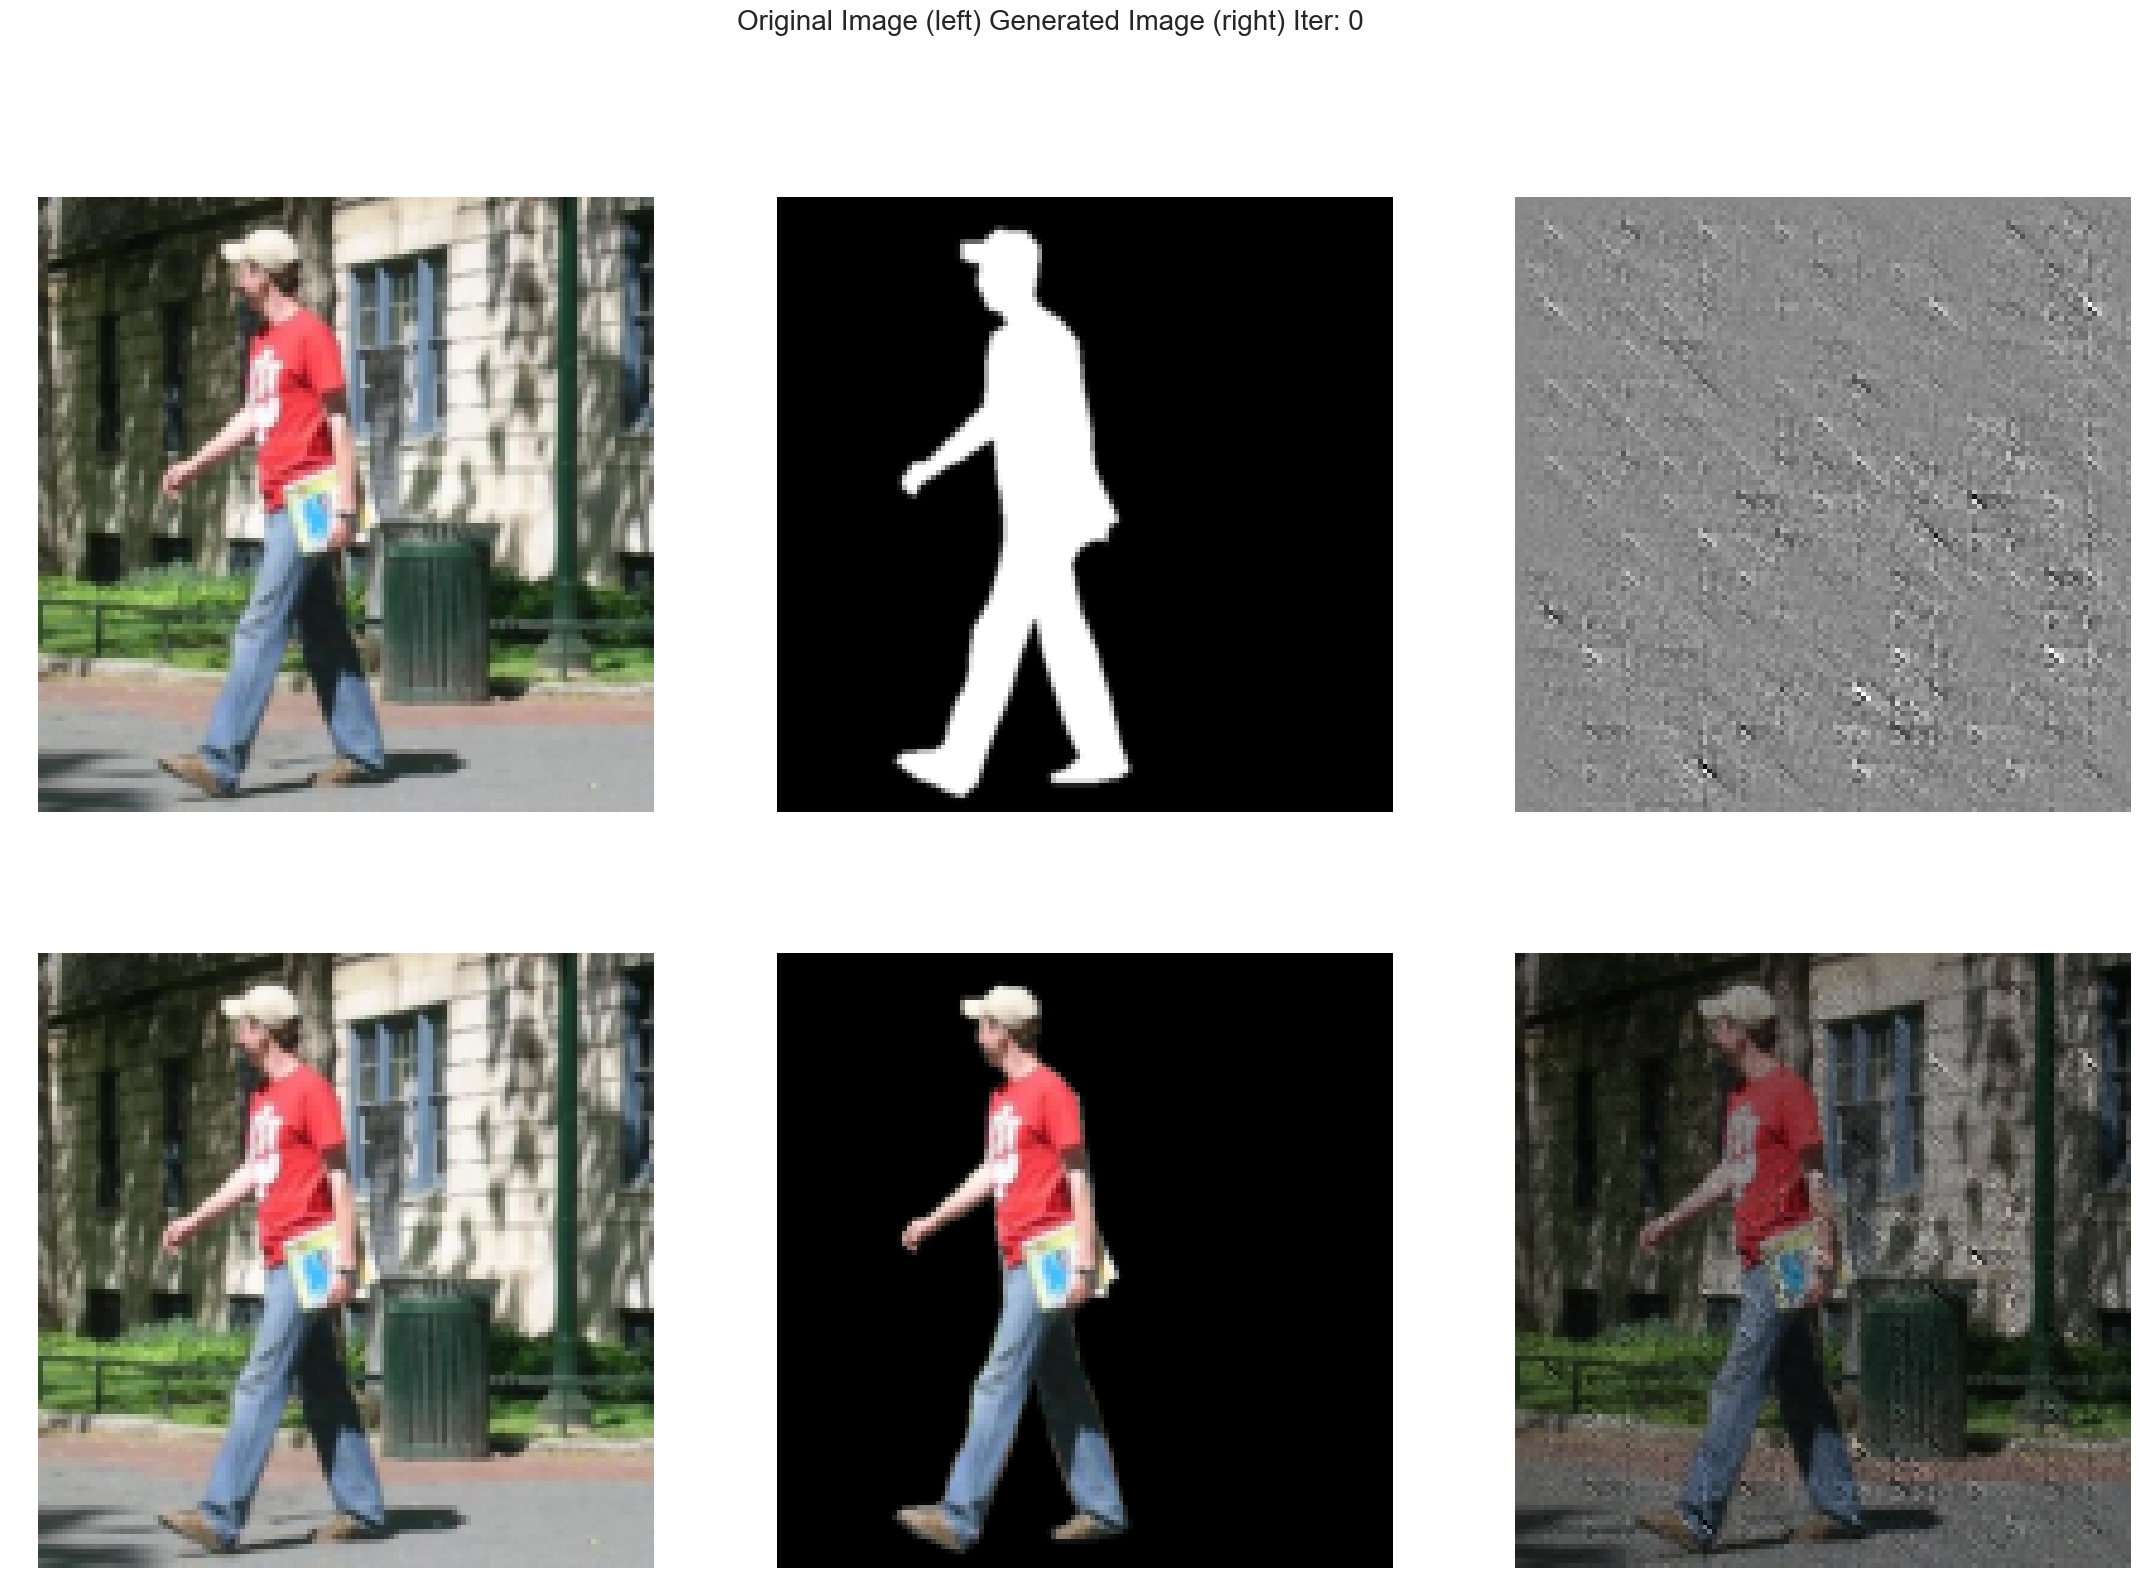
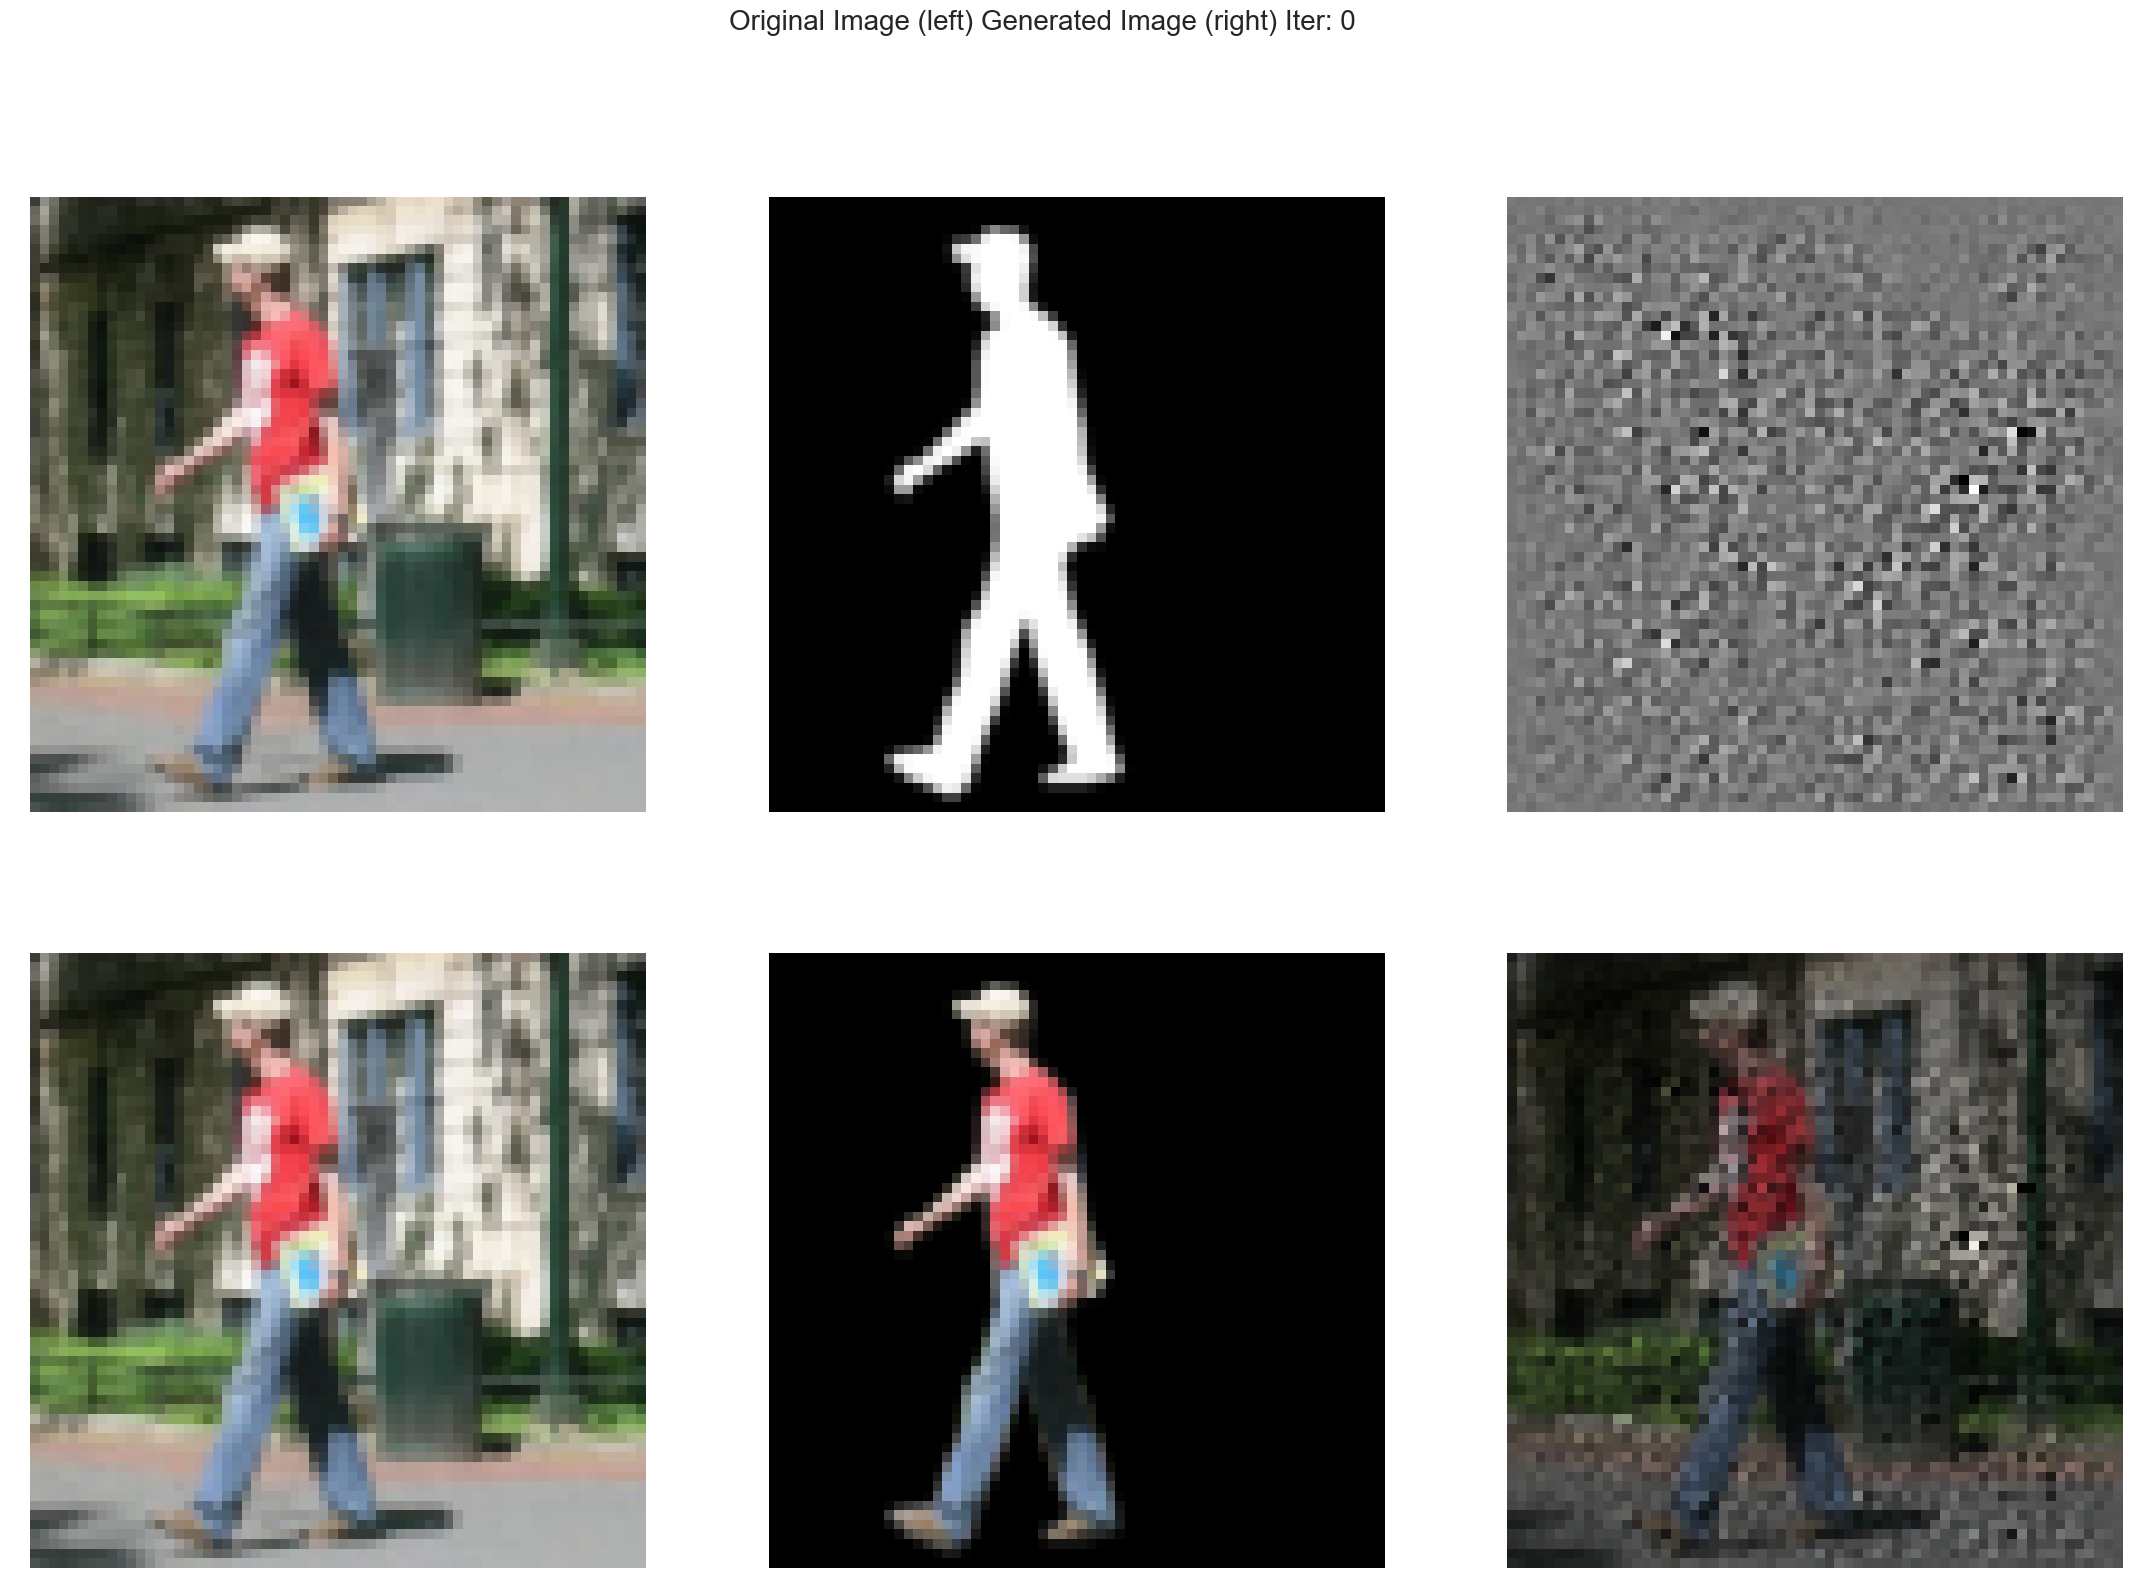
s

diff --git a/NeuralNetwork/Sparse_Auto/a.py b/NeuralNetwork/Sparse_Auto/a.py
@@ -266,8 +266,8 @@ class Sparse_Filter_Layer():
 
     def feedforward(self,input):
         self.sparse_layer  = tf.matmul(input,self.w)
-        second = tf.nn.elu(self.sparse_layer )
-        # second = self.soft_abs(self.sparse_layer )
+        # second = tf.nn.elu(self.sparse_layer )
+        second = self.soft_abs(self.sparse_layer )
         third  = tf.divide(second,tf.sqrt(tf.reduce_sum(second**2,axis=0)+self.epsilon))
         four = tf.divide(third,tf.sqrt(tf.reduce_sum(third**2,axis=1)[:,tf.newaxis] +self.epsilon))
         self.cost_update = tf.reduce_mean(four)
@@ -337,21 +337,21 @@ el4 = CNN(3,4,4)
 reduce_dim = 16*3
 sparse_layer = Sparse_Filter_Layer(8*8*4,1*1*reduce_dim)
 
-dl0 = CNN_Trans(3,4,3)
-dl1 = CNN_Trans(3,4,4)
-fl1 = CNN(3,4,4)
+dl0 = CNN_Trans(3,8,3)
+dl1 = CNN_Trans(3,8,8)
+fl1 = CNN(3,8,8)
 
-dl2 = CNN_Trans(3,4,4)
-fl2 = CNN(3,4,4)
+dl2 = CNN_Trans(3,8,8)
+fl2 = CNN(3,8,4)
 
 dl3 = CNN_Trans(3,4,4)
 fl3 = CNN(3,4,1)
 
 # hyper
-num_epoch = 1001
+num_epoch = 3001
 learning_rate = 0.0008
 batch_size = 20
-print_size = 100
+print_size = 500
 
 beta1,beta2,adam_e = 0.9,0.9,1e-8
 
